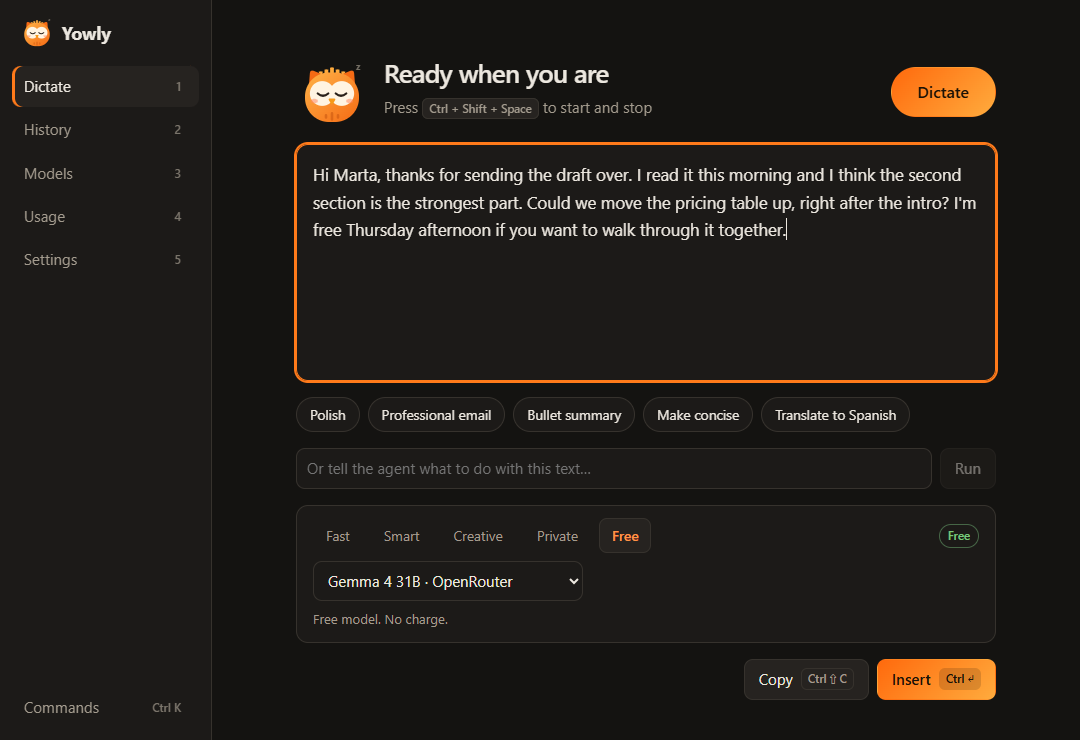
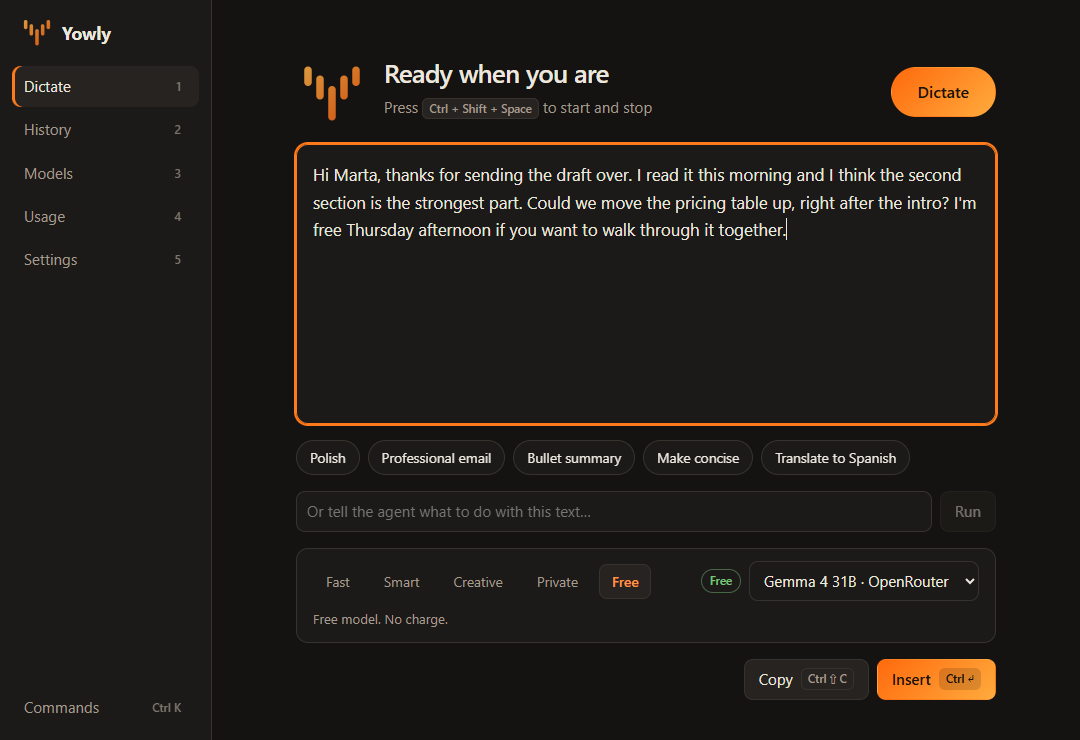
Replace the owl mascot with an abstract voice-wave Y mark
Five waveform bars that step down into the letter Y; motion alone shows
state. Updates the app, icon, site assets and design doc. Also keeps the
model picker on one row.

diff --git a/src/renderer/src/Mascot.tsx b/src/renderer/src/Mascot.tsx
@@ -1,87 +1,30 @@
 import type { MascotState } from './bridge'
 
-// Yowly: a compact owl whose crest is a five-bar voice waveform.
-// Soft cream face, big glossy eyes and blush cheeks keep it friendly.
+// The Yowly mark: five voice-wave bars that step down into the letter Y.
+// It has no face; motion alone shows the state (see "mark motion" in styles.css).
 // Colors are literal (not CSS variables) so the SVG can be rasterized for the tray icon.
-const INK = '#2a211a'
-const CREAM = '#fff4e2'
-const CREST = [8, 14, 20, 14, 8]
-
-function Eye({ cx, dx, dy, r }: { cx: number; dx: number; dy: number; r: number }) {
-  return (
-    <>
-      <circle cx={cx + dx} cy={50 + dy} r={r} fill={INK} />
-      <circle cx={cx + dx - r * 0.35} cy={50 + dy - r * 0.38} r={r * 0.34} fill="#fff" />
-      <circle cx={cx + dx + r * 0.38} cy={50 + dy + r * 0.3} r={r * 0.15} fill="#fff" opacity=".8" />
-    </>
-  )
-}
+const BARS = [
+  { x: 11, y: 14, h: 26 },
+  { x: 27, y: 26, h: 32 },
+  { x: 43, y: 40, h: 46 },
+  { x: 59, y: 26, h: 32 },
+  { x: 75, y: 14, h: 26 },
+]
 
 export default function Mascot({ state = 'idle', size = 64 }: { state?: MascotState; size?: number }) {
-  const open = state === 'listening' || state === 'thinking' || state === 'transcribing' || state === 'error'
-  const [dx, dy] =
-    state === 'thinking' ? [2.5, -2.5] : state === 'transcribing' ? [0, 2] : state === 'error' ? [0, 2.5] : [0, 0]
-  const r = state === 'listening' ? 8 : state === 'error' ? 6.2 : 7.2
   return (
     <svg className={`mascot m-${state}`} width={size} height={size} viewBox="0 0 96 96" role="img" aria-label={`Yowly is ${state}`}>
       <defs>
-        <linearGradient id="yb" x1="0" y1="0" x2="1" y2="1">
+        <linearGradient id="yb" gradientUnits="userSpaceOnUse" x1="8" y1="10" x2="88" y2="90">
           <stop offset="0" stopColor="#ffb347" />
-          <stop offset="1" stopColor="#f56a14" />
+          <stop offset="1" stopColor="#f2590d" />
         </linearGradient>
       </defs>
-      <g className="m-crest">
-        {CREST.map((h, i) => (
-          <rect key={i} className={`m-bar b${i}`} x={30.5 + i * 7.5} y={24 - h} width="5" height={h} rx="2.5" fill="#ffab3d" />
+      <g fill={state === 'error' ? '#a8927f' : 'url(#yb)'}>
+        {BARS.map((b, i) => (
+          <rect key={i} className={`m-bar b${i}`} x={b.x} y={b.y} width="10" height={b.h} rx="5" />
         ))}
       </g>
-      <g className="m-body">
-        <path d="M21 36 L22 23 L34 28 Z M75 36 L74 23 L62 28 Z" fill="#f56a14" stroke="#f56a14" strokeWidth="7" strokeLinejoin="round" />
-        <rect x="12" y="22" width="72" height="66" rx="32" fill="url(#yb)" />
-        <circle cx="35" cy="50" r="16.5" fill={CREAM} />
-        <circle cx="61" cy="50" r="16.5" fill={CREAM} />
-        <ellipse cx="24.5" cy="60" rx="4.5" ry="3" fill="#ff8a65" opacity=".55" />
-        <ellipse cx="71.5" cy="60" rx="4.5" ry="3" fill="#ff8a65" opacity=".55" />
-        {open ? (
-          <>
-            <Eye cx={36} dx={dx} dy={dy} r={r} />
-            <Eye cx={60} dx={dx} dy={dy} r={r} />
-            {state === 'transcribing' && (
-              <path d="M29 39.5 h13 M54 39.5 h13" stroke={INK} strokeWidth="2.6" strokeLinecap="round" />
-            )}
-            {state === 'error' && (
-              <path d="M28 41 L41 37.5 M68 41 L55 37.5" stroke={INK} strokeWidth="2.6" strokeLinecap="round" />
-            )}
-          </>
-        ) : (
-          <path
-            d={state === 'success' ? 'M29 52 q7 -9 14 0 M53 52 q7 -9 14 0' : 'M29 50 q7 6 14 0 M53 50 q7 6 14 0'}
-            fill="none"
-            stroke={INK}
-            strokeWidth="3"
-            strokeLinecap="round"
-          />
-        )}
-        <path d="M45 58 h6 l-3 5 Z" fill="#f59a1b" stroke="#f59a1b" strokeWidth="3" strokeLinejoin="round" />
-        <path d="M40 79 v3 M48 76.5 v8 M56 79 v3" stroke="#c2500c" strokeWidth="3.5" strokeLinecap="round" opacity=".5" />
-      </g>
-      {state === 'transcribing' && (
-        <g className="m-waves" fill="none" stroke="#ffab3d" strokeWidth="3" strokeLinecap="round">
-          <path d="M7 46 q-5 8 0 16" />
-          <path d="M89 46 q5 8 0 16" />
-        </g>
-      )}
-      {state === 'thinking' && (
-        <g className="m-dots" fill="#ffab3d">
-          <circle cx="83" cy="18" r="2.5" />
-          <circle cx="90" cy="11" r="3" />
-        </g>
-      )}
-      {state === 'idle' && (
-        <text x="80" y="18" className="m-zz" fill="#8f877a" fontSize="12" fontWeight="700" fontFamily="system-ui">
-          z
-        </text>
-      )}
     </svg>
   )
 }

diff --git a/src/renderer/src/styles.css b/src/renderer/src/styles.css
@@ -146,7 +146,8 @@ input.recording { border-color: var(--accent); color: var(--accent-text); }
 .hero > div { flex: 1; }
 .editor { flex: 1; min-height: 190px; resize: none; padding: var(--s4); border-radius: var(--radius); font-size: 1.05rem; line-height: 1.65; }
 .agentbar { padding: var(--s3) var(--s4); border: 1px solid var(--border); border-radius: var(--radius); background: var(--surface); }
-.agentbar select { max-width: 270px; }
+.agentbar .pick { margin-left: auto; }
+.agentbar select { max-width: 230px; }
 .agentbar p { margin: var(--s2) 0 0; }
 
 /* lists, tables, tiles */
@@ -211,22 +212,19 @@ ul.plain li { margin: var(--s2) 0; }
 .pill-btn.primary { background: linear-gradient(135deg, #ff6a0d, #ffab3d); border-color: transparent; color: #1b1206; font-weight: 700; }
 .pill-btn.wide { width: auto; padding: 0 14px; border-radius: 999px; }
 
-/* mascot motion */
+/* mark motion: the bars alone show the state */
 .mascot { flex: none; overflow: visible; }
-.m-bar { transform-box: fill-box; transform-origin: center bottom; transition: transform 0.25s; }
-.m-idle .m-bar, .m-error .m-bar { transform: scaleY(0.45); }
-.m-error .m-body, .m-error .m-crest { filter: saturate(0.55); }
+.m-bar { transform-box: fill-box; transform-origin: center; transition: transform 0.25s, opacity 0.25s; }
+.m-idle .m-bar { opacity: 0.85; }
+.m-error .m-bar { transform: scaleY(0.7); }
 .m-listening .m-bar { animation: bar 0.7s ease-in-out infinite alternate; }
-.m-transcribing .m-bar { animation: bar 0.45s ease-in-out infinite alternate; }
-.m-thinking .m-bar { animation: bar 1.4s ease-in-out infinite alternate; }
+.m-transcribing .m-bar { animation: bar 0.4s ease-in-out infinite alternate; }
+.m-thinking .m-bar { animation: pulse 1.2s ease-in-out infinite; }
 .m-bar.b1 { animation-delay: -0.15s; } .m-bar.b2 { animation-delay: -0.3s; } .m-bar.b3 { animation-delay: -0.45s; } .m-bar.b4 { animation-delay: -0.6s; }
-.m-waves { animation: pulse 0.9s ease-in-out infinite; }
-.m-dots { animation: pulse 1.3s ease-in-out infinite; }
-.m-zz { animation: pulse 2.6s ease-in-out infinite; }
-.m-success .m-body { animation: hop 0.45s ease-out; transform-box: fill-box; transform-origin: center bottom; }
-@keyframes bar { from { transform: scaleY(0.35); } to { transform: scaleY(1.15); } }
+.m-success { animation: pop 0.45s ease-out; }
+@keyframes bar { from { transform: scaleY(0.55); } to { transform: scaleY(1.12); } }
 @keyframes pulse { 0%, 100% { opacity: 0.25; } 50% { opacity: 1; } }
-@keyframes hop { 40% { transform: translateY(-5px); } }
+@keyframes pop { 40% { transform: scale(1.14); } }
 @keyframes rise { from { opacity: 0; transform: translateY(6px); } }
 
 @media (prefers-reduced-motion: reduce) {

diff --git a/src/renderer/src/screens/Dictate.tsx b/src/renderer/src/screens/Dictate.tsx
@@ -214,9 +214,10 @@ export default function Dictate(ctx: Ctx) {
               {PRESET_NAMES[p]}
             </button>
           ))}
-          <span className="grow" />
-          {model && <span className={`tag t-${model.label.replace(' ', '')}`}>{model.label}</span>}
-          <ModelSelect models={st.models} value={s.modelId} onChange={(id) => void set({ modelId: id })} />
+          <span className="row pick">
+            {model && <span className={`tag t-${model.label.replace(' ', '')}`}>{model.label}</span>}
+            <ModelSelect models={st.models} value={s.modelId} onChange={(id) => void set({ modelId: id })} />
+          </span>
         </div>
         <p className="muted small">
           {!model

diff --git a/site/index.html b/site/index.html
@@ -246,7 +246,7 @@
 
   <section class="close">
     <div class="wrap">
-      <img src="yowly.svg" width="96" height="96" alt="Yowly, an orange owl with a waveform crest">
+      <img src="yowly.svg" width="96" height="96" alt="The Yowly mark: five orange voice-wave bars forming a Y">
       <h2>Give your keyboard a rest</h2>
       <a class="btn" href="https://github.com/atrenatocruz/yowly/releases/latest/download/Yowly-Setup.exe">
         Download Yowly for free

diff --git a/docs/02-design.md b/docs/02-design.md
@@ -1,10 +1,10 @@
-# Yowly: design system and mascot
+# Yowly: design system and brand mark
 
 The live source of truth is `src/renderer/src/styles.css` (tokens at the top) and `src/renderer/src/Mascot.tsx`.
 
 ## Principles
 
-1. Calm surface, lively mascot. Only the owl and the primary action are orange.
+1. Calm surface, lively mark. Only the Yowly mark and the primary action are orange.
 2. Typography leads. Few borders, no decorative chrome.
 3. Keyboard first. Everything reachable without a mouse.
 4. Honest states. Cost, privacy and errors are always said in plain words.
@@ -50,28 +50,30 @@ Tag (Free / Local / Paid / BYO key) · Tile · Meter · Table · List item · Di
 
 - Visible 2 px orange focus ring on every interactive element.
 - `prefers-reduced-motion` turns off all animation.
-- Status changes use `aria-live`. Dialogs are `aria-modal`. Mascot has a text label per state.
+- Status changes use `aria-live`. Dialogs are `aria-modal`. The mark has a text label per state.
 - Light and dark both keep body text and orange text above 4.5:1.
 
-## Mascot: Yowly the owl
+## Brand mark: the voice-wave Y
 
-**Concept.** A compact, round owl. Its crest is five rounded bars, a voice waveform, so the brand idea (speech becomes clear thought) is in the silhouette. Big glossy eyes on a soft cream face carry all expression. Blush cheeks keep it warm. A small waveform mark sits on the chest.
+**Concept.** Five rounded vertical bars, a voice waveform, that step down toward the middle so together they read as the letter Y. Speech (the wave) becomes something clear (a letter). It is an abstract symbol with no face or character.
 
-**Shape rules.** Rounded body, two small soft ear tufts, crest between them. Orange gradient body, cream face disc, large dark pupils with a white highlight, pink cheeks. No outlines and no dark mask, so it reads friendly and stays legible at 16 px.
+**Shape rules.** Five bars of equal width with fully rounded ends, mirrored left to right. The centre bar is the longest and sits lowest. One orange gradient runs across the whole mark. No outline, no container, no extra shapes, so it stays legible at 16 px.
 
-**States**
+**States.** With no face, motion alone carries the state.
 
-| State | Eyes | Crest | Extra |
-|---|---|---|---|
-| Idle / sleeping | closed, relaxed arcs | low, still | small fading "z" |
-| Listening | wide, large pupils | bouncing with the voice | pill border turns orange |
-| Thinking | pupils up and to the side | slow wave | two rising dots |
-| Transcribing | looking down, flat focused brows | fast wave | sound arcs at both sides |
-| Success | happy upward arcs | full height | one small hop |
-| Error | worried brows, looking down | drooped | desaturated, never red |
+| State | Motion |
+|---|---|
+| Idle | still, slightly dimmed |
+| Listening | bars bounce in a slow wave |
+| Thinking | bars fade in and out in sequence |
+| Transcribing | bars bounce in a fast wave |
+| Success | whole mark pops once, full brightness |
+| Error | bars shrink and turn warm grey, never red |
+
+All motion stops under `prefers-reduced-motion`; state is then shown by the text beside the mark.
 
 **Where it appears.** Sidebar brand (34 px, mirrors live state) · Dictate header (72 px) · recording pill (52 px) · empty states (96 px) · welcome (84 px) · tray and window icon (rasterized from the same SVG).
 
-**App icon direction.** The owl's head and crest, centered on a warm charcoal rounded square (`#1c1a18`), orange gradient body. For the menu bar: a one-color template version of the same silhouette (head outline + five crest bars). Export sizes: 16, 32, 64, 128, 256, 512, 1024.
+**App icon direction.** The mark centred on a warm charcoal rounded square (`#1c1a18`). For the macOS menu bar: the same five bars as a one-colour template image. Export sizes: 16, 32, 64, 128, 256, 512, 1024.
 
-**Don'ts.** No starburst or spark shapes, no abstract "AI orb", no terracotta, no serif wordmark. Yowly is always a character with a face.
+**Don'ts.** Do not add a face, eyes or a character. Do not rotate, outline or recolour the mark outside the orange gradient, white or near-black. No starburst or spark shapes, no terracotta.

diff --git a/README.md b/README.md
@@ -26,7 +26,7 @@ npm run dev
 |---|---|
 | `src/core` | Portable logic: cleanup, cost and cap rules, model catalog, providers |
 | `src/main` | Electron shell: hotkeys, insertion, keychain, storage, orchestration |
-| `src/renderer` | React UI, mascot, recording pill, on-device Whisper worker |
+| `src/renderer` | React UI, brand mark, recording pill, on-device Whisper worker |
 | `docs` | Product brief, design system, architecture and plan, security checklist |
 
 ## Website
